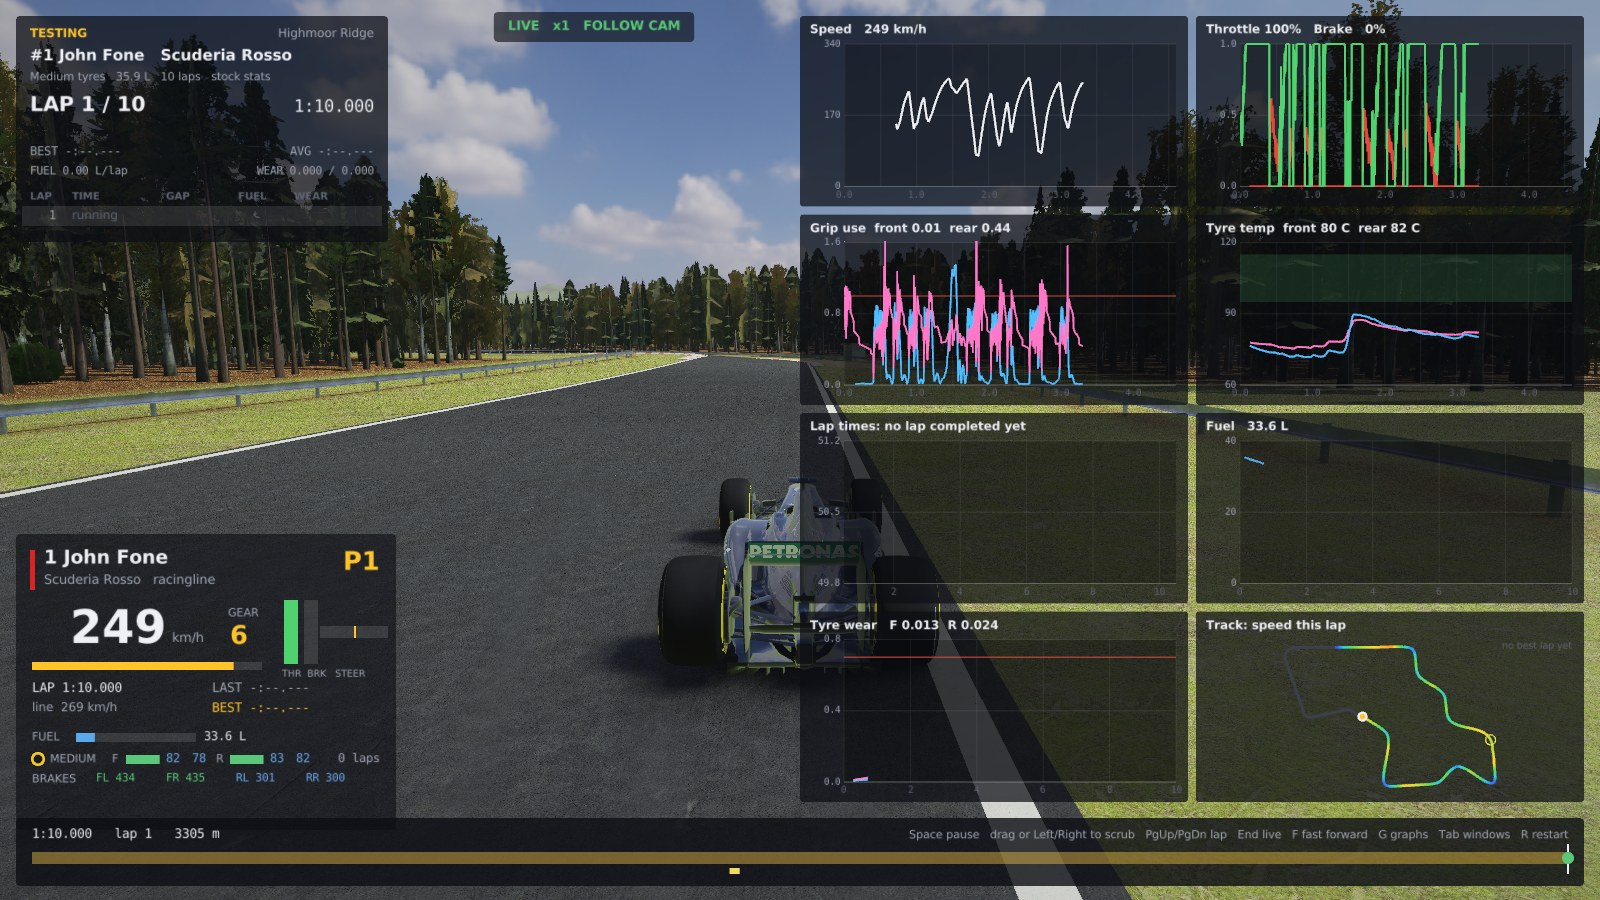
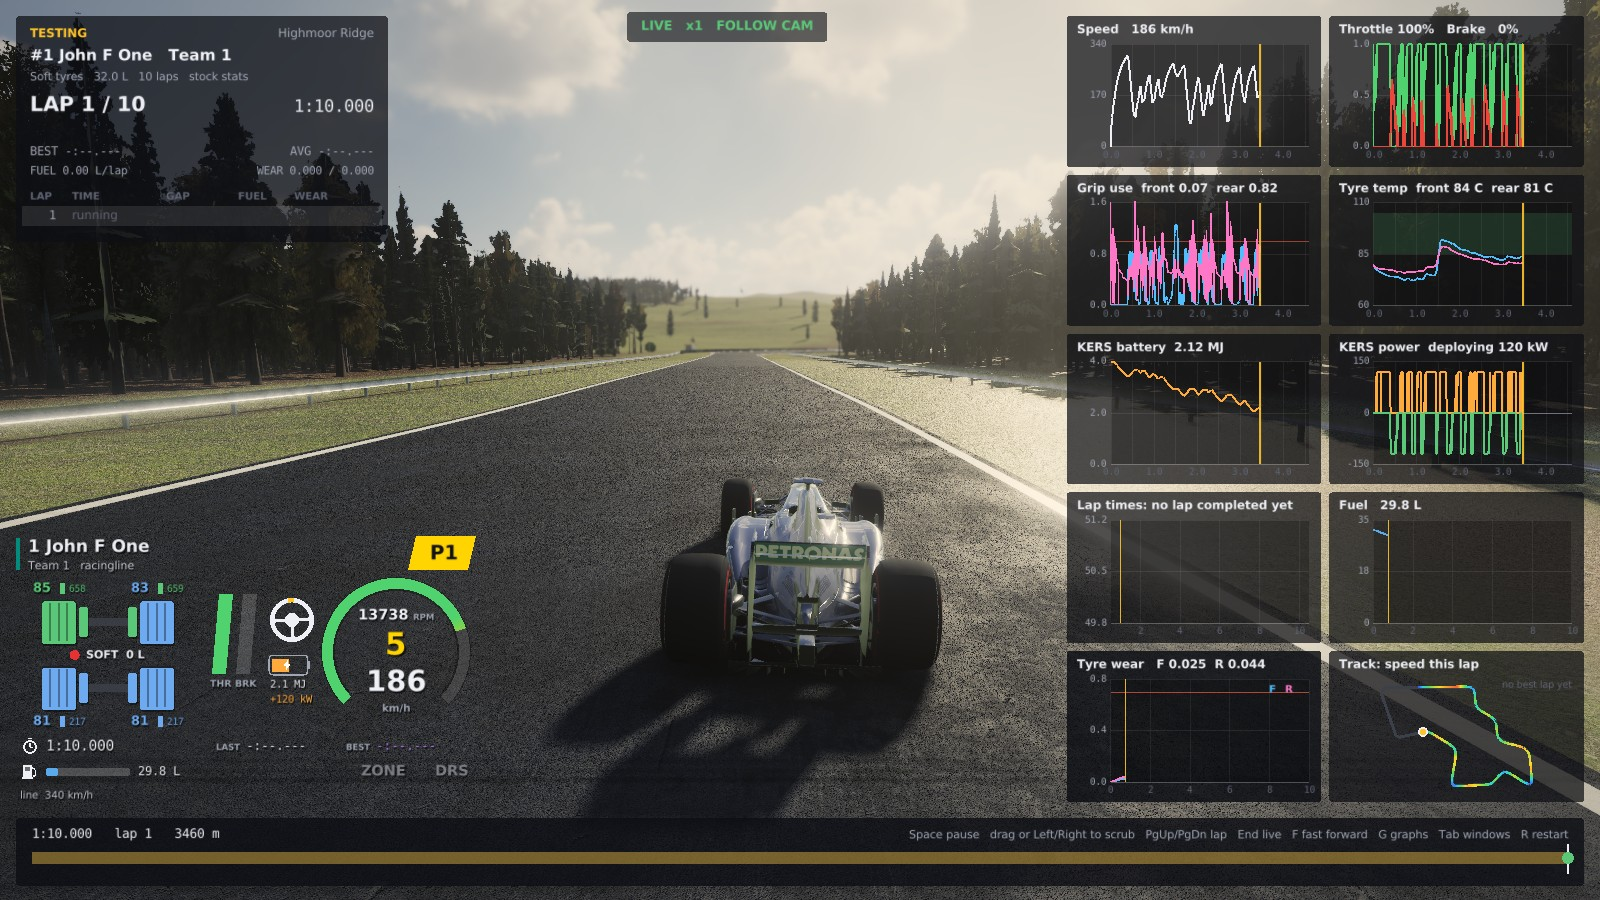
README: mixed colourful grid with the Mercedes followed, new testing scene, T-cam at the Ardennes Ring; --stock now sets only the followed car
Claude-Session: https://claude.ai/code/session_01HmCYMBNHAscPEUem7JU6Ng

diff --git a/apps/viewer/main.cpp b/apps/viewer/main.cpp
@@ -220,8 +220,18 @@ int main(int argc, char** argv) {
         loadStockCars(paths.assets);
 #endif
 #ifdef RR2_RENDERER
-        if (cfg.stockCar > 0 && stockPresent(cfg.stockCar))
-            for (CarLivery& l : liveries) l.model = cfg.stockCar, l.color = stockColour(cfg.stockCar);
+        if (cfg.stockCar > 0 && stockPresent(cfg.stockCar)) {
+            // the followed car (--focus, else the first) drives that stock car; the rest of the field a mix of the others, so the tower has colour
+            int next = 0;
+            for (size_t i = 0; i < liveries.size(); ++i) {
+                int model = cfg.stockCar;
+                if ((int)i != std::max(0, cfg.focus)) {
+                    do model = 1 + next++ % kStockCars; while (model == cfg.stockCar || !stockPresent(model));
+                }
+                liveries[i].model = model;
+                liveries[i].color = stockColour(model);
+            }
+        }
 #endif
         setLiveryTable(liveries);
     }

diff --git a/src/core/config.cpp b/src/core/config.cpp
@@ -81,7 +81,7 @@ std::string usage(const char* prog, bool viewer) {
              "  --quality N           graphics 0 low, 1 medium, 2 high (default)\n"
              "  --look N              lighting: 0 partly cloudy, 1 mud road, 2 overcast, 3 sunny haze (RR2 viewer; K cycles)\n"
              "  --sun-turn DEG        turn the sky and its sun about the vertical (RR2 viewer; ; and ' turn it live)\n"
-             "  --stock N             every team drives stock car N, 1..11 (2 is the Mercedes in its own livery)\n"
+             "  --stock N             the followed car (--focus) drives stock car N, 1..11 (2 is the Mercedes in its own livery), the others a mix of the rest\n"
              "  --focus N             follow car N (0 = first --car); default: whoever leads\n"
              "  --screenshot FILE     save a screenshot at --at seconds of race time, then exit\n"
              "  --at SECONDS\n"

diff --git a/README.md b/README.md
@@ -94,6 +94,10 @@ of times real time for experiments, or in a raylib 3D viewer to watch them.
 | ![Race end: lap chart](docs/images/rr2_lapchart.jpg) | ![Ardennes Ring: the Kemmel-style straight under a footbridge](docs/images/rr2_spa_kemmel.jpg) |
 | ![Ardennes Ring: paddock, garages, grandstand and a village skyline](docs/images/rr2_spa_paddock.jpg) | ![Ardennes Ring: Ruisseau, concrete walls and forest](docs/images/rr2_spa_eau_rouge.jpg) |
 
+The T-camera (roll hoop, `T`) at the Ardennes Ring, with cars ahead in the sun:
+
+![T-camera at the Ardennes Ring in the sunny haze look, cars ahead](docs/images/rr2_tcam_spa.jpg)
+
 The race HUD (the race screenshots above are in the sunny haze look, `K` in the viewer): the timing tower, the see-through track map and the car panel.
 
 ![Race HUD: timing tower, track map and the car panel with rev gauge, tyre and brake temperatures, pedals, steering, KERS and DRS](docs/images/rr2_hud.jpg)
@@ -506,7 +510,7 @@ The V8 sound plays through a recorded F1 exhaust response (`assets/sound`); `M` 
 ./build/rr_viewer2 --test --no-menu --car racingline  # a testing run with the telemetry screens
 ./build/rr_viewer2 --no-menu --camera 7              # a race with the director camera
 ./build/rr_viewer2 --screenshot shot.png --at 40 --no-menu   # a screenshot of the race at 40 s
-./build/rr_viewer2 --screenshot shot.png --at 40 --no-menu --look 3 --stock 2 --sun-turn 250   # in the sunny haze look, every team in the Mercedes livery, the sun turned 250 degrees
+./build/rr_viewer2 --screenshot shot.png --at 40 --no-menu --look 3 --stock 2 --sun-turn 250   # in the sunny haze look, the followed car in the Mercedes livery and the rest of the field in other stock cars, the sun turned 250 degrees
 ```
 
 The materials and skies come from `tools/import_assets.py` (CC0, see
